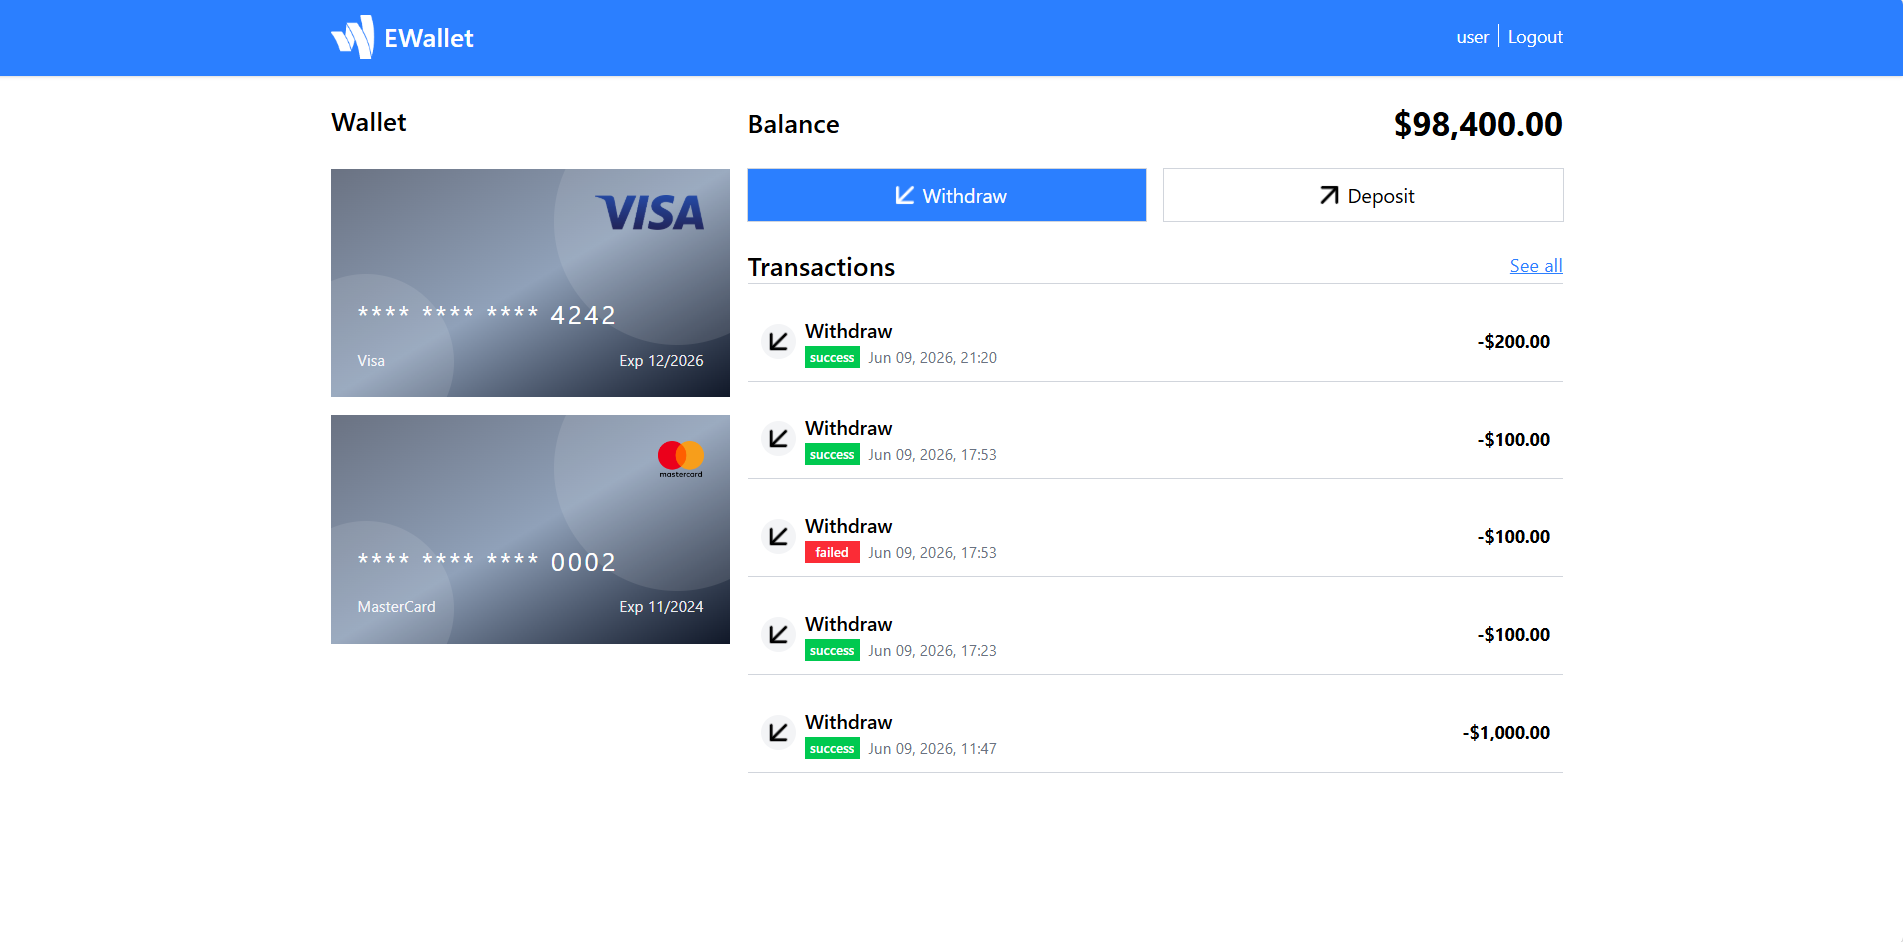
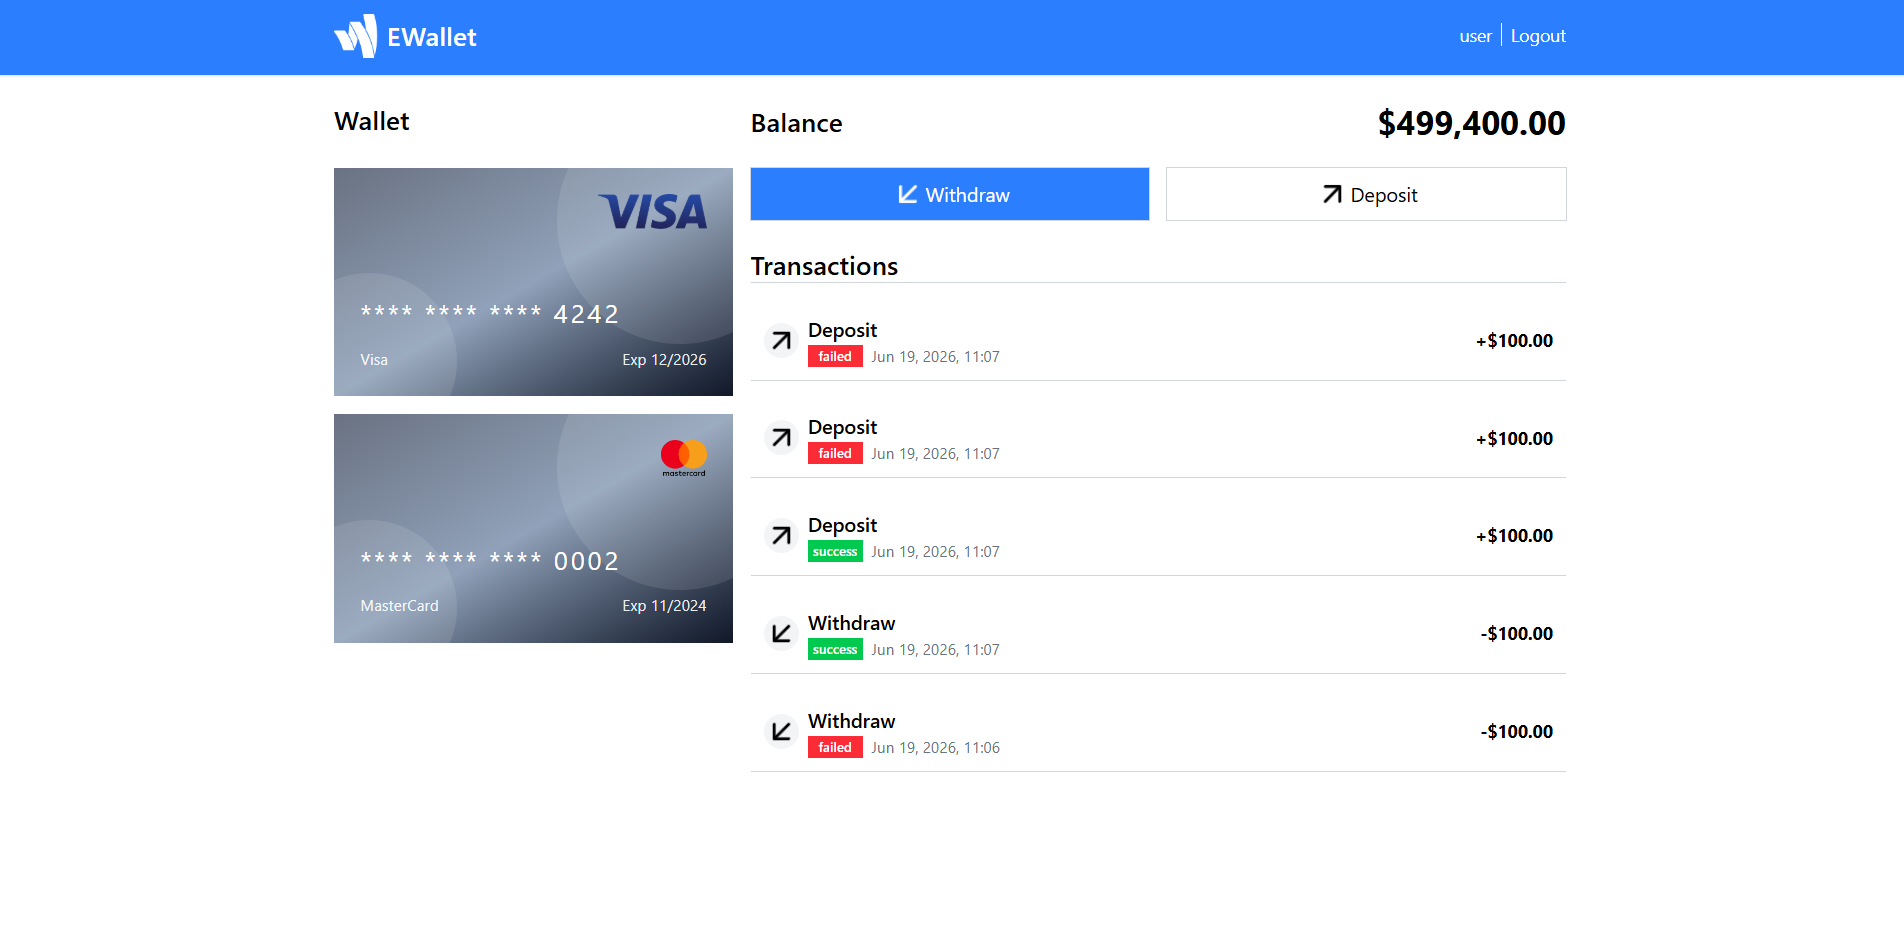
chore: update README.md

diff --git a/README.md b/README.md
@@ -1,12 +1,41 @@
 # Ewallet
-> Practical Microservices, build with .NET 8, API Gateway, JWT authentication, and transactional flows.
+
+> Practical Microservices, build with .NET 8, API Gateway, JWT authentication, and transactional flows. This is MVP project about microservices and MIT License, you can change it.
 
 ## Solution Structure
-<img src="/docs/imgs/solution-structure.png">
+
+- Backend
+  <img src="/docs/imgs/solution-structure.png">
+
+- Frontend
+  <img src="/docs/imgs/fe-solution-structure.png">
 
 ## Demo
-#### Homepage
+
+#### HomePage
+
 <img src="/docs/imgs/home-page.png">
 
-#### Loginpage
+#### LoginPage
+
 <img src="/docs/imgs/login-page.png">
+
+#### RegisterPage
+
+<img src="/docs/imgs/register-page.png">
+
+## How to run and build
+
+Note: If you want to deploy project, let's you update docker-compose.yaml, variable environment.
+
+1. Clone
+
+```
+git clone github.com/taidangduc/ewallet.git
+```
+
+2. Run Docker Compose
+
+```
+docker compose up -d
+```